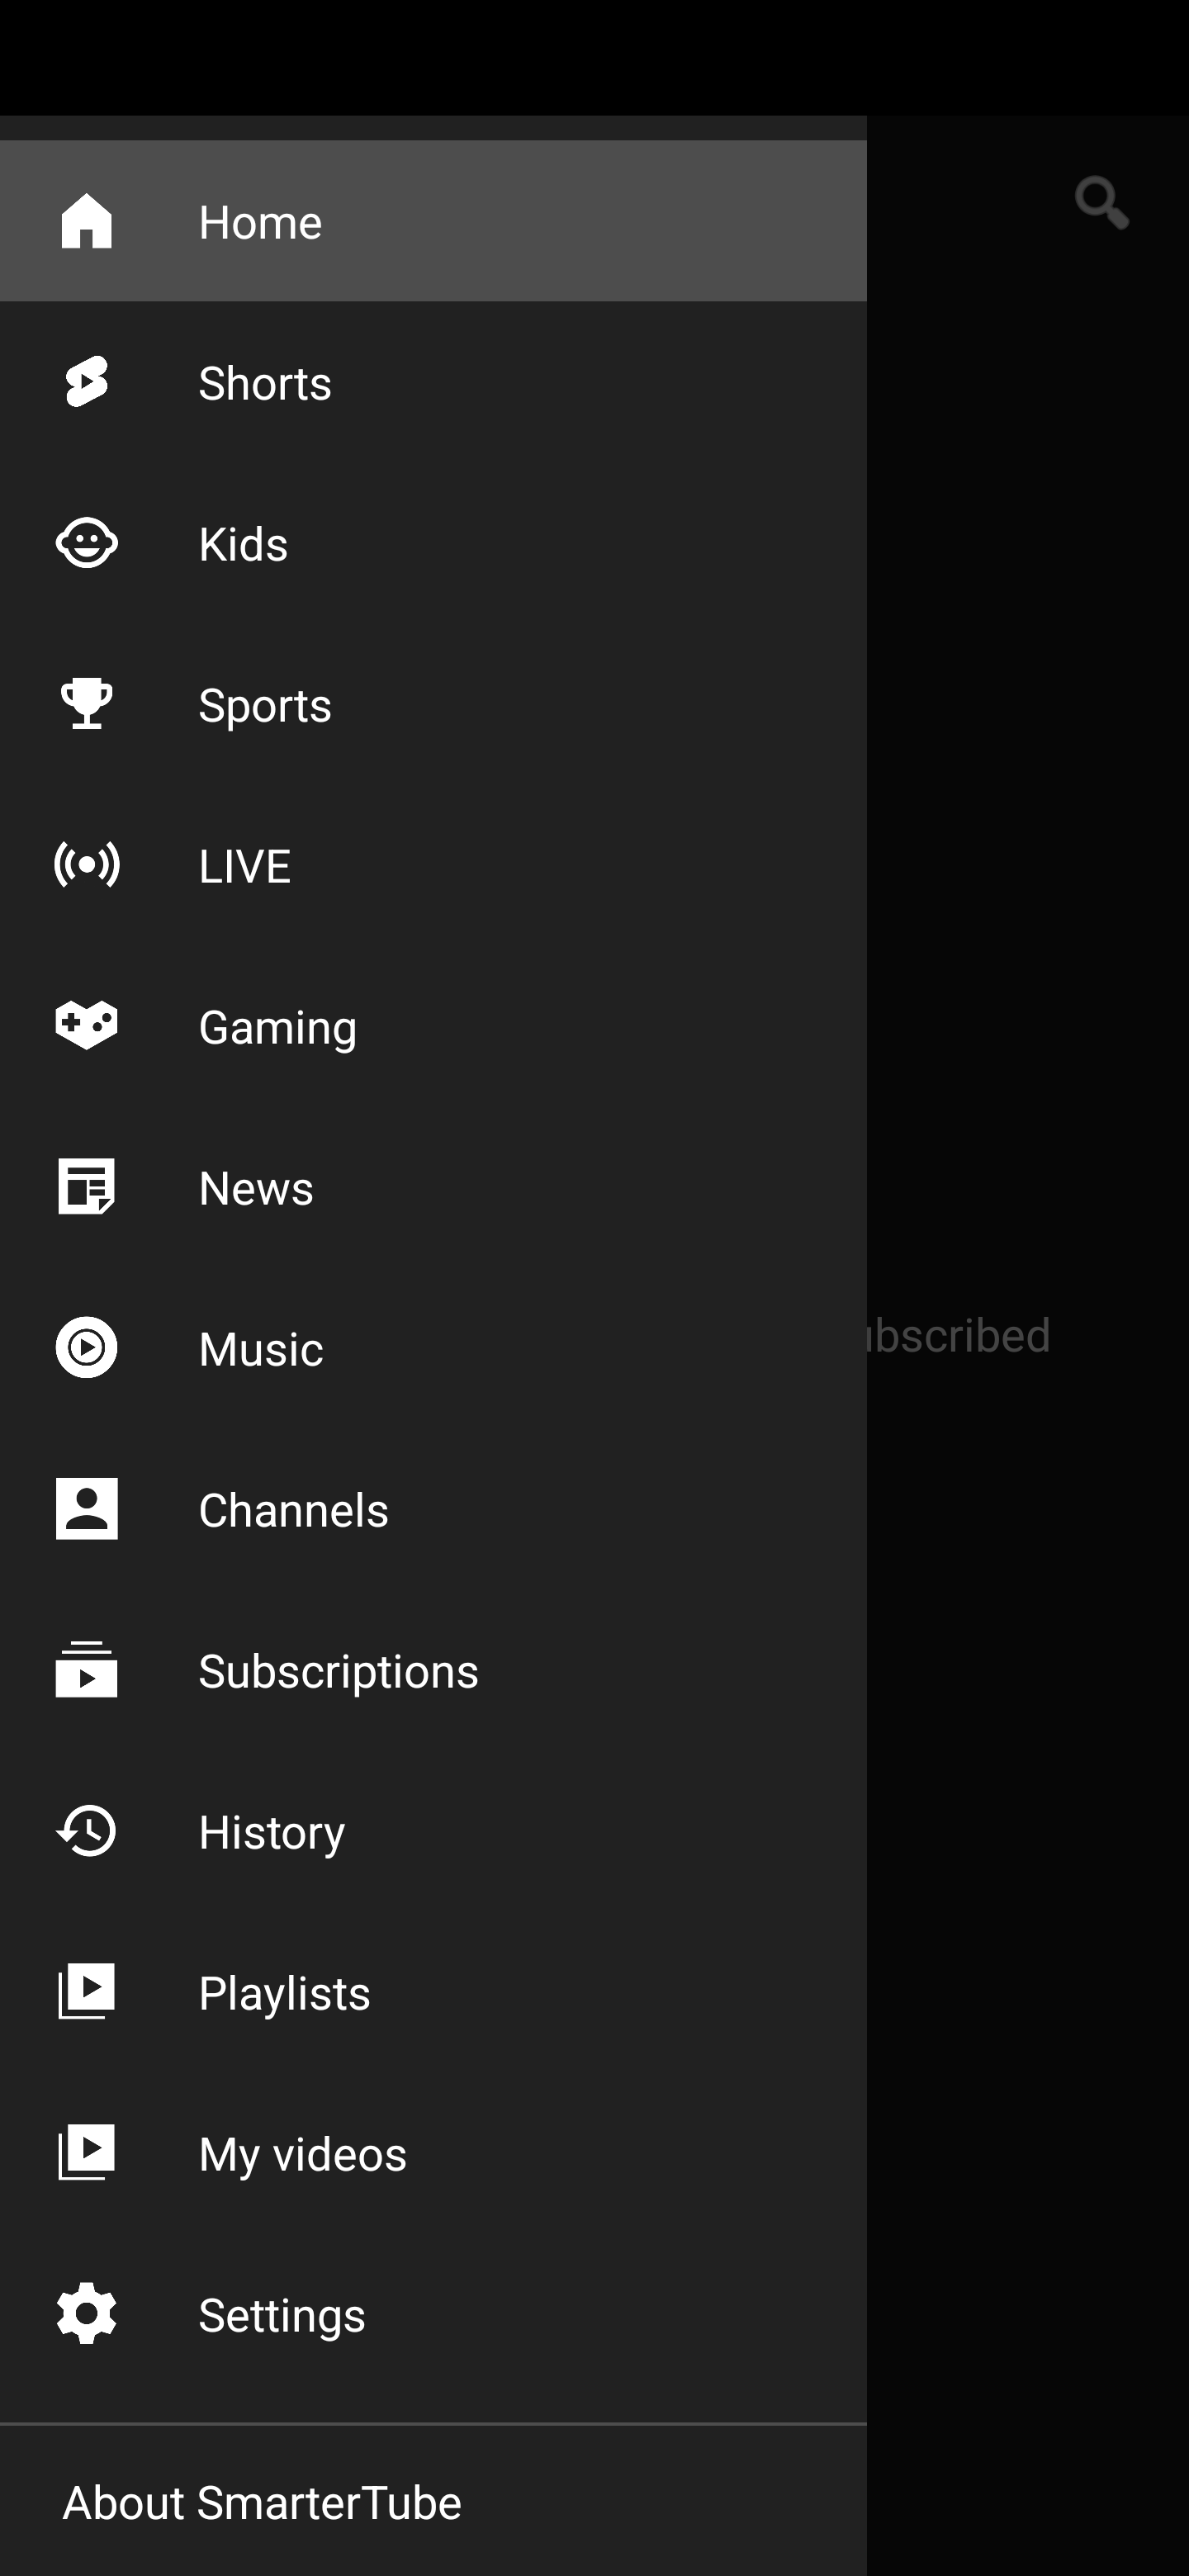
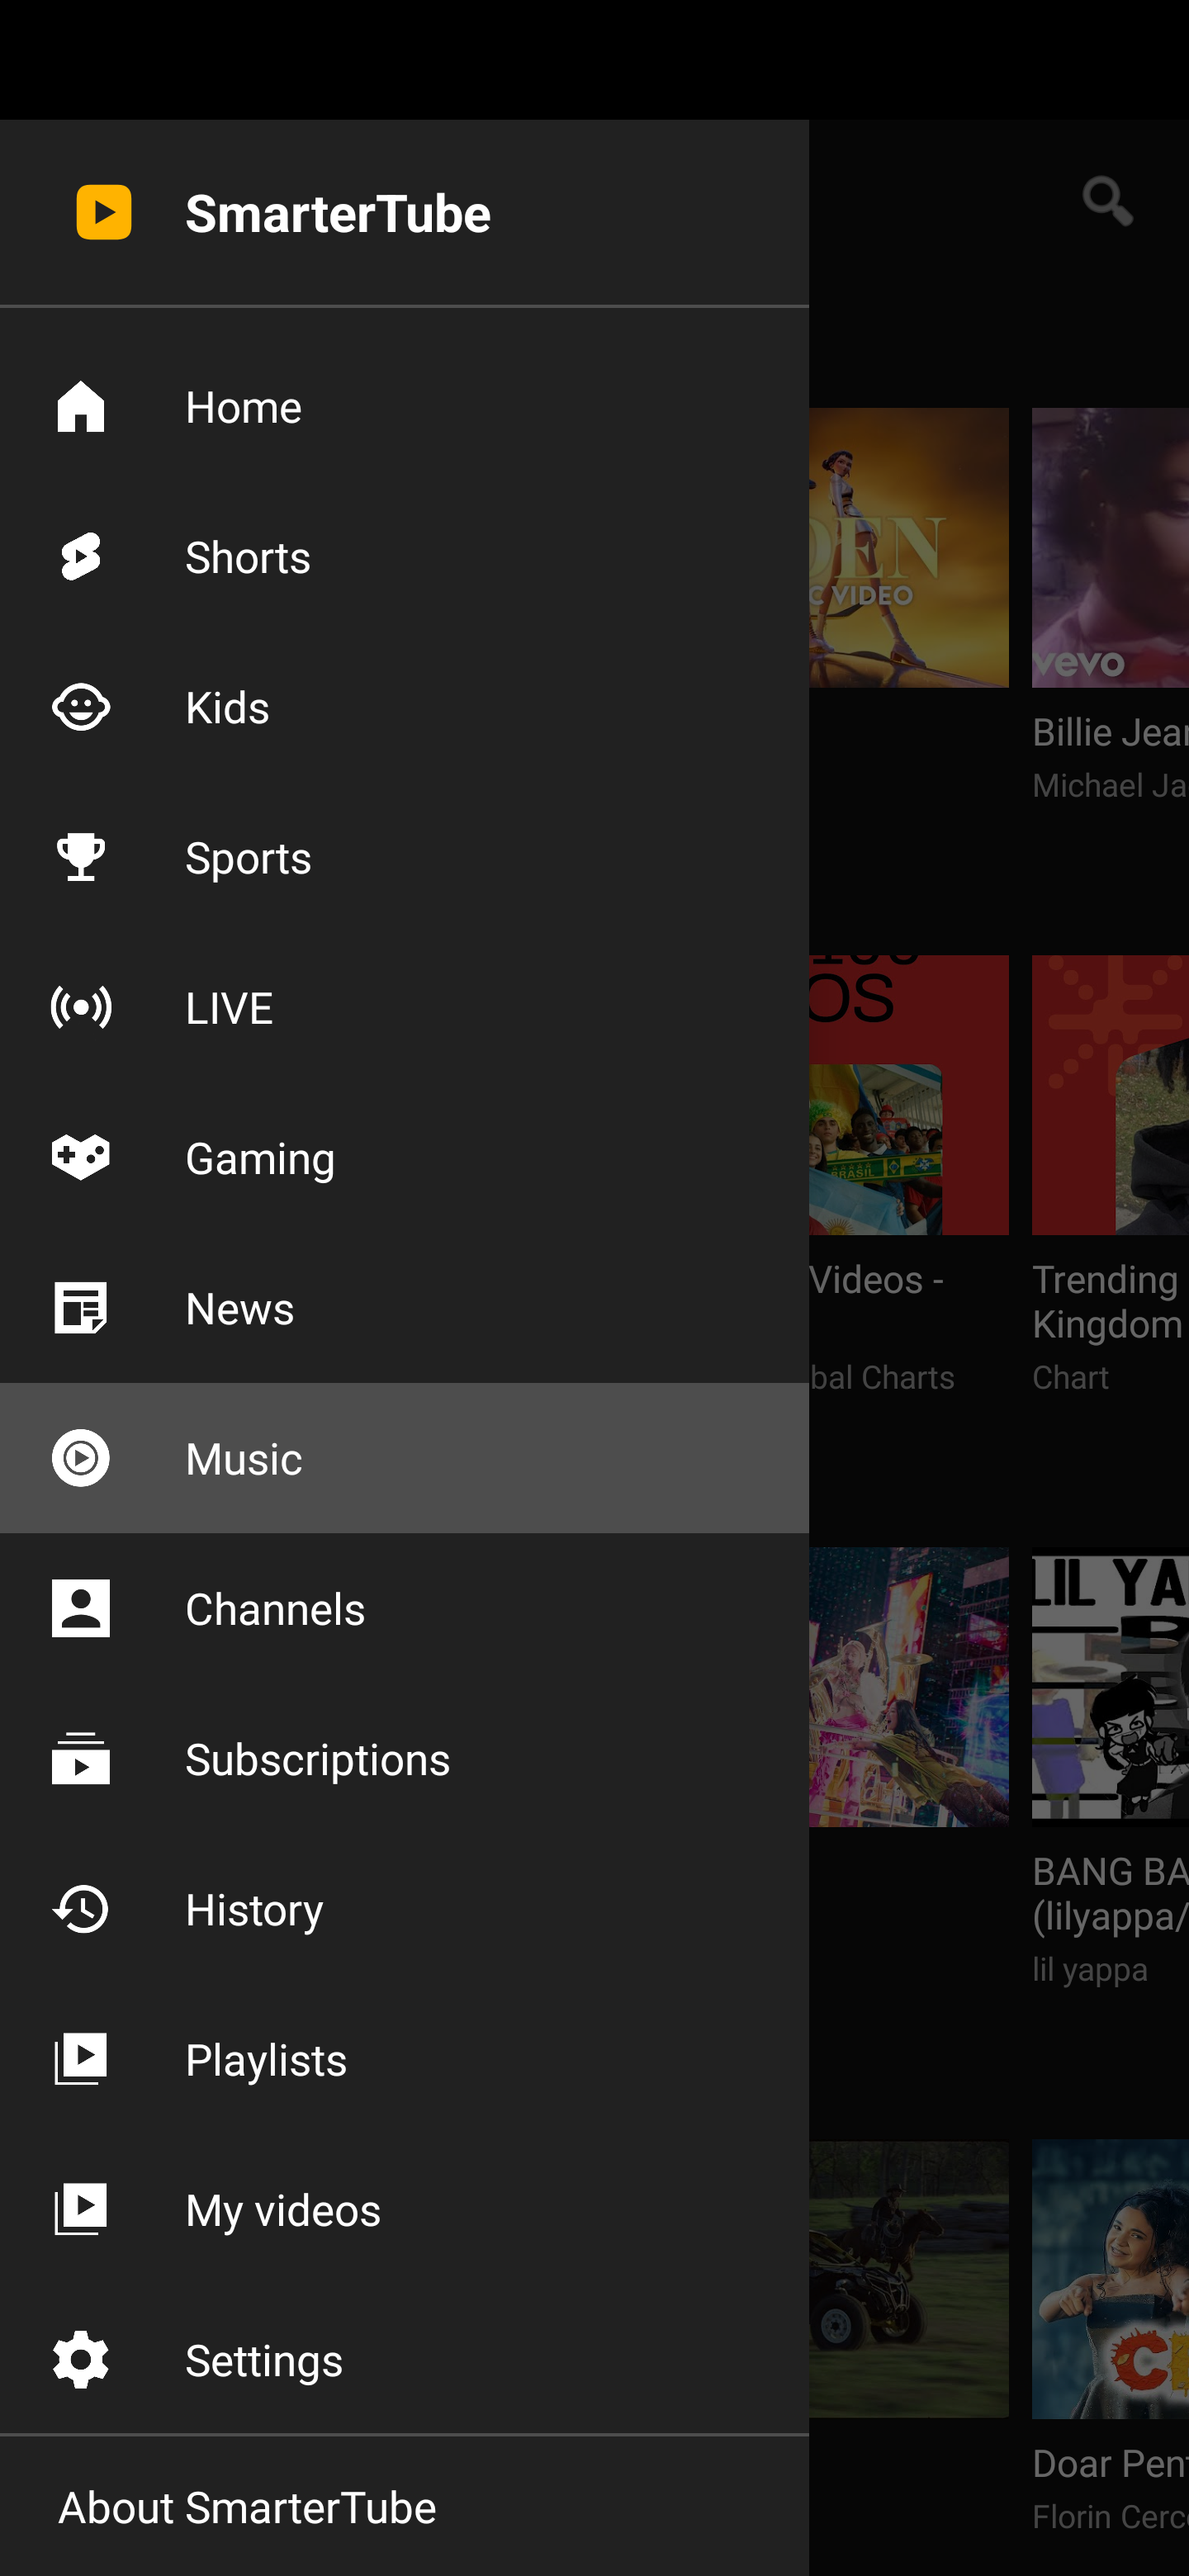
docs(readme): refresh phone screenshots and fix voice copy
- Replace the empty signed-out Home hero with a content-rich browse shot.
- Update the search screenshot to show the voice button.
- Refresh the drawer screenshot (dark theme + new logo header).
- Add a video player screenshot, the key screen that was missing.
- Remove the stale "Voice search — keyboard search only" limitation that
  contradicted the headline; list voice search under What works.
- Refresh the fastlane store screenshots to match.

diff --git a/README.md b/README.md
@@ -9,11 +9,15 @@ It is a fork of [SmartTube](https://github.com/yuliskov/SmartTube) by yuliskov. 
 > **1.0.** A complete native phone & tablet UI — Home, Search (with voice), Channel, Channel Uploads, Settings, sign-in, and playback — built on SmartTube's YouTube engine. Unlike app-modifiers, these are real native Android screens, not a repackaged YouTube APK.
 
 <p align="center">
-  <img src="images/phone_home.png" width="270" alt="Home screen"/>
+  <img src="images/phone_browse.png" width="260" alt="Browsing music charts and trending videos"/>
   &nbsp;&nbsp;&nbsp;
-  <img src="images/phone_drawer.png" width="270" alt="Navigation drawer"/>
+  <img src="images/phone_search.png" width="260" alt="Search with voice button and results grid"/>
   &nbsp;&nbsp;&nbsp;
-  <img src="images/phone_search.png" width="270" alt="Search results"/>
+  <img src="images/phone_drawer.png" width="260" alt="Navigation drawer"/>
+</p>
+
+<p align="center">
+  <img src="images/phone_player.png" width="640" alt="Video player with SponsorBlock, Return YouTube Dislike, and up to 1080/60"/>
 </p>
 
 ---
@@ -72,7 +76,7 @@ If the hash matches the one GitHub shows for that asset, the file is intact.
 
 ### Phone UI (this fork adds)
 - Portrait home screen with drawer navigation (Home, Shorts, Kids, Sports, LIVE, Gaming, News, Music, Channels, Subscriptions, History, Playlists, My videos)
-- Search with suggestions and results grid
+- Search with suggestions and results grid, plus voice search
 - Channel pages and channel uploads
 - Portrait settings screen
 - Sign in / sign out — multiple accounts, OAuth device-code flow via in-app browser tab
@@ -104,7 +108,6 @@ Specific gaps:
 - **TV / leanback interface** — install [upstream SmartTube](https://github.com/yuliskov/SmartTube) for Android TV boxes and sticks.
 - **F-Droid listing** — not yet; sideload from Releases.
 - **Casting / Chromecast** — not plumbed into the phone UI.
-- **Voice search** — keyboard search only.
 
 ---
 